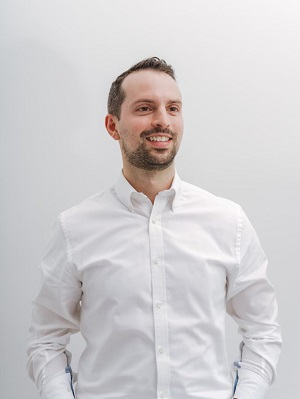
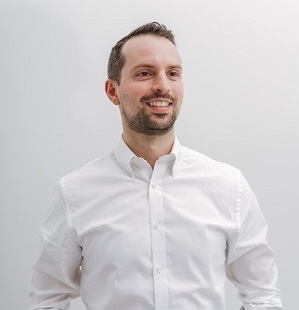
added jonathan profile in teams

diff --git a/public/index.html b/public/index.html
@@ -230,13 +230,12 @@
                             <div class="testimonial-content-wrap">
                                 <p class="paragraph-regular"> &emsp;&emsp; Dr. Vanessa Mio-Quiring is currently an Adjunct Assistant Professor within the Faculty of Education and the Music Education (Continuing Education) departments at the University of Windsor. Vanessa completed a Doctor of Philosophy in Educational Studies degree (with a focus on violin pedagogy) from the University of Windsor. Vanessa also earned a Master of Music, a Bachelor of Music, and a Performance Diploma in Violin Performance from the Indiana University Jacobs School of Music where she studied violin with Mimi Zweig, Kathleen Winkler, Baroque violin with Stanley Ritchie, and string pedagogy with Mimi Zweig and Dr. Brenda Brenner.
                                 </p>
-                                
+                                <br>
                                 <div class="paragraph-regular text-color-gray-600"><span
                                         class="text-color-primary">Dr. Vanessa Mio-Quiring</span> - Director</div>
-                                        <br>
                                         <button type="button" class="btn btn-primary" data-toggle="modal" data-target="#vanessaModal">
                                             View More
-                                          </button>
+                                        </button>
                             </div>
                             
                             <div class="testimonial-image-wrap"><img
@@ -272,7 +271,7 @@
                                 </p>
                                 <br>
                                 <div class="paragraph-regular text-color-gray-600"><span
-                                        class="text-color-primary">Adam Iannetta</span> - Teaching Assistant</div>
+                                        class="text-color-primary">Dr. Adam Iannetta</span> - Teaching Assistant</div>
                                         <br>
                                         <button type="button" class="btn btn-primary" data-toggle="modal" data-target="#adamModal">
                                             View More
@@ -281,6 +280,25 @@
                             
                             <div class="testimonial-image-wrap"><img
                                     src="assets/images/Adam.png"
+                                    loading="lazy" alt="" class="image-cover" /></div>
+                        </div>
+                    </div>
+                    <div class="w-slide">
+                        <div class="w-layout-grid testimonial-grid">
+                            <div class="testimonial-content-wrap">
+                                <p class="paragraph-regular"> &emsp;&emsp; Dr. Bayley is a graduate of McGill University, the University of Alberta, University of Rochester (Eastman School of Music), and The Ohio State University. He is presently Professor Emeritus at the University of Windsor, Ontario, Canada. He has been the Acting Director of the Joint PhD Program, Director of the School of Music (University of Windsor), and Associate Dean of Graduate Studies, Research, and Continuing Education (Faculty of Education).
+                                </p>
+                                <br>
+                                <div class="paragraph-regular text-color-gray-600"><span
+                                        class="text-color-primary">Dr. Jonathan G. Bayley</span> - Research Collaborator</div>
+                                        <br>
+                                        <button type="button" class="btn btn-primary" data-toggle="modal" data-target="#jonathanModal">
+                                            View More
+                                          </button>
+                            </div>
+                            
+                            <div class="testimonial-image-wrap"><img
+                                    src="assets/images/jonathan.png"
                                     loading="lazy" alt="" class="image-cover" /></div>
                         </div>
                     </div>
@@ -355,7 +373,7 @@
         <div class="modal-dialog modal-lg" role="document" > 
         <div class="modal-content">
             <div class="modal-header">
-            <h3 class="h3-heading">Adam <span class="text-color-primary">Iannetta</span> 
+            <h3 class="h3-heading">Dr. Adam <span class="text-color-primary">Iannetta</span> 
                 <button type="button" class="close" data-dismiss="modal" aria-label="Close">
                     <span aria-hidden="true">&times;</span>
                 </button>
@@ -373,6 +391,36 @@
                     Although classically trained, Adam is no stranger to contemporary and popular music. From opera and oratorio to musical theatre and jazz, Adam has never been one to turn down an opportunity to learn new music. Just as well, his versatility and charming sense of humour are made easily apparent both on and off the stage. During his time at Western, Adam worked alongside directors including Tom Diamond, Michael Cavanagh, and Allison Grant as head of administration and stage management for the school’s Opera Workshop.   
                     <br><br>
                     From his doctoral studies, Adam hopes to cultivate his performance practice and musicianship to advocate all genres of music (classical and contemporary) as being more accessible to all groups and communities. 
+            </p>
+            </div>
+            <div class="modal-footer">
+            <button type="button" class="btn btn-secondary" data-dismiss="modal">Close</button>
+            </div>
+        </div>
+        </div>
+    </div>
+    <div class="modal fade bd-example-modal-lg" id="jonathanModal" tabindex="-1" role="dialog" aria-labelledby="myLargeModalLabel" aria-hidden="true">
+        <div class="modal-dialog modal-lg" role="document" > 
+        <div class="modal-content">
+            <div class="modal-header">
+            <h3 class="h3-heading">Dr. Jonathan <span class="text-color-primary">G.</span> Bayley 
+                <button type="button" class="close" data-dismiss="modal" aria-label="Close">
+                    <span aria-hidden="true">&times;</span>
+                </button>
+            </h3>
+            
+            </div>
+            <div class="modal-body">
+                <p class="paragraph-regular" style="text-align: justify;">
+                    &emsp;&emsp; Dr. Bayley is a graduate of McGill University, the University of Alberta, University of Rochester (Eastman School of Music), and The Ohio State University. He is presently Professor Emeritus at the University of Windsor, Ontario, Canada. He has been the Acting Director of the Joint PhD Program, Director of the School of Music (University of Windsor), and Associate Dean of Graduate Studies, Research, and Continuing Education (Faculty of Education).
+
+                    <br><br>
+
+                    &emsp;&emsp;He has taught at the secondary school level (Junior and senior high school), adjudicated numerous music festivals throughout Canada and was a flute instructor at Alberta College Conservatory of Music for 15 years. He has also taught at the University of Alberta, The Ohio State University, University of Regina, University of Windsor, and Beijing Foreign Studies University.  Dr. Bayley has written and published several arrangements and original works (ALRY Publication) as well as academic papers. Two of his recordings, Music for Flute and Guitar and Between the Silence, have received international airplay. He has premiered numerous works for flute and most recently commissioned and premiered a Sonata for Flute and Organ by the American composer Matt Doran.
+                    <br><br>
+                     
+                    
+                    &emsp;&emsp;Dr. Bayley has presented at international conferences and published numerous scholarly articles in various research design formats including historical, self-report survey research, case study, and reflective pedagogical practices <i>(Alberta History, Canadian Winds, Canadian Musical Educator, Journal of Historical Research in Music Education, Update: Applications of Research in Music Education, Journal of Comparative and International Education, Journal of Peer Learning, and the International Journal of Music Education)</i>.
             </p>
             </div>
             <div class="modal-footer">

diff --git a/public/team.html b/public/team.html
@@ -130,6 +130,25 @@
                                     loading="lazy" alt="" class="image-cover" /></div>
                         </div>
                     </div>
+                    <div class="w-slide">
+                        <div class="w-layout-grid testimonial-grid">
+                            <div class="testimonial-content-wrap">
+                                <p class="paragraph-regular"> &emsp;&emsp; Dr. Bayley is a graduate of McGill University, the University of Alberta, University of Rochester (Eastman School of Music), and The Ohio State University. He is presently Professor Emeritus at the University of Windsor, Ontario, Canada. He has been the Acting Director of the Joint PhD Program, Director of the School of Music (University of Windsor), and Associate Dean of Graduate Studies, Research, and Continuing Education (Faculty of Education).
+                                </p>
+                                <br>
+                                <div class="paragraph-regular text-color-gray-600"><span
+                                        class="text-color-primary">Dr. Jonathan G. Bayley</span> - Research Collaborator</div>
+                                        <br>
+                                        <button type="button" class="btn btn-primary" data-toggle="modal" data-target="#jonathanModal">
+                                            View More
+                                          </button>
+                            </div>
+                            
+                            <div class="testimonial-image-wrap"><img
+                                    src="assets/images/jonathan.png"
+                                    loading="lazy" alt="" class="image-cover" /></div>
+                        </div>
+                    </div>
                 </div>
                 <div class="testimonial-slider-left-button w-slider-arrow-left">
                     <div class="icon-regular w-embed"><svg xmlns="http://www.w3.org/2000/svg" width="24" height="24"
@@ -219,6 +238,36 @@
                     Although classically trained, Adam is no stranger to contemporary and popular music. From opera and oratorio to musical theatre and jazz, Adam has never been one to turn down an opportunity to learn new music. Just as well, his versatility and charming sense of humour are made easily apparent both on and off the stage. During his time at Western, Adam worked alongside directors including Tom Diamond, Michael Cavanagh, and Allison Grant as head of administration and stage management for the school’s Opera Workshop.   
                     <br><br>
                     From his doctoral studies, Adam hopes to cultivate his performance practice and musicianship to advocate all genres of music (classical and contemporary) as being more accessible to all groups and communities. 
+            </p>
+            </div>
+            <div class="modal-footer">
+            <button type="button" class="btn btn-secondary" data-dismiss="modal">Close</button>
+            </div>
+        </div>
+        </div>
+    </div>
+    <div class="modal fade bd-example-modal-lg" id="jonathanModal" tabindex="-1" role="dialog" aria-labelledby="myLargeModalLabel" aria-hidden="true">
+        <div class="modal-dialog modal-lg" role="document" > 
+        <div class="modal-content">
+            <div class="modal-header">
+            <h3 class="h3-heading">Dr. Jonathan <span class="text-color-primary">G.</span> Bayley 
+                <button type="button" class="close" data-dismiss="modal" aria-label="Close">
+                    <span aria-hidden="true">&times;</span>
+                </button>
+            </h3>
+            
+            </div>
+            <div class="modal-body">
+                <p class="paragraph-regular" style="text-align: justify;">
+                    &emsp;&emsp; Dr. Bayley is a graduate of McGill University, the University of Alberta, University of Rochester (Eastman School of Music), and The Ohio State University. He is presently Professor Emeritus at the University of Windsor, Ontario, Canada. He has been the Acting Director of the Joint PhD Program, Director of the School of Music (University of Windsor), and Associate Dean of Graduate Studies, Research, and Continuing Education (Faculty of Education).
+
+                    <br><br>
+
+                    &emsp;&emsp;He has taught at the secondary school level (Junior and senior high school), adjudicated numerous music festivals throughout Canada and was a flute instructor at Alberta College Conservatory of Music for 15 years. He has also taught at the University of Alberta, The Ohio State University, University of Regina, University of Windsor, and Beijing Foreign Studies University.  Dr. Bayley has written and published several arrangements and original works (ALRY Publication) as well as academic papers. Two of his recordings, Music for Flute and Guitar and Between the Silence, have received international airplay. He has premiered numerous works for flute and most recently commissioned and premiered a Sonata for Flute and Organ by the American composer Matt Doran.
+                    <br><br>
+                     
+                    
+                    &emsp;&emsp;Dr. Bayley has presented at international conferences and published numerous scholarly articles in various research design formats including historical, self-report survey research, case study, and reflective pedagogical practices <i>(Alberta History, Canadian Winds, Canadian Musical Educator, Journal of Historical Research in Music Education, Update: Applications of Research in Music Education, Journal of Comparative and International Education, Journal of Peer Learning, and the International Journal of Music Education)</i>.
             </p>
             </div>
             <div class="modal-footer">
